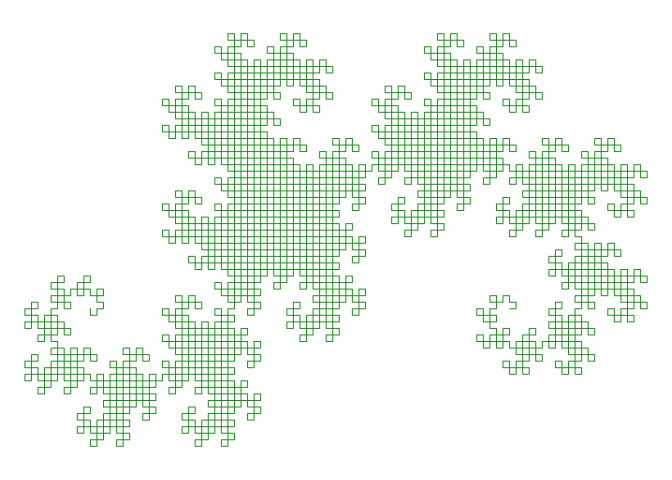
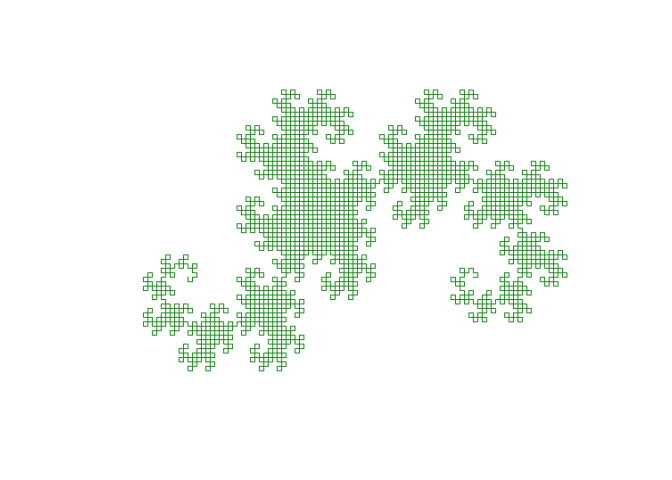
Fix image widths, closes #37

Changed region(s): [[0.0312, 0.0625, 0.9688, 0.9375]]

diff --git a/README.md b/README.md
@@ -37,10 +37,9 @@ d <- dragon_curve(12)
 plot(d, col = "forestgreen")
 ```
 
-<img src="man/figures/README-dragon-1.png" width="100%" />
+![](man/figures/README-dragon-1.png)<!-- -->
 
-**Mandelbrot
-set**
+**Mandelbrot set**
 
 ``` r
 blue_to_black <- colorRampPalette(c(rgb(0, 0, 0.5), "white", rgb(1, 0.75, 0), 
@@ -56,7 +55,7 @@ m <- mandelbrot(
 plot(m)
 ```
 
-<img src="man/figures/README-mandelbrot-1.png" width="100%" />
+![](man/figures/README-mandelbrot-1.png)<!-- -->
 
 **Sandpile**
 
@@ -65,4 +64,4 @@ s <- sandpile(1e5, c("white", "yellow", "orange", "red"))
 plot(s)
 ```
 
-<img src="man/figures/README-sandpile-1.png" width="100%" />
+![](man/figures/README-sandpile-1.png)<!-- -->
